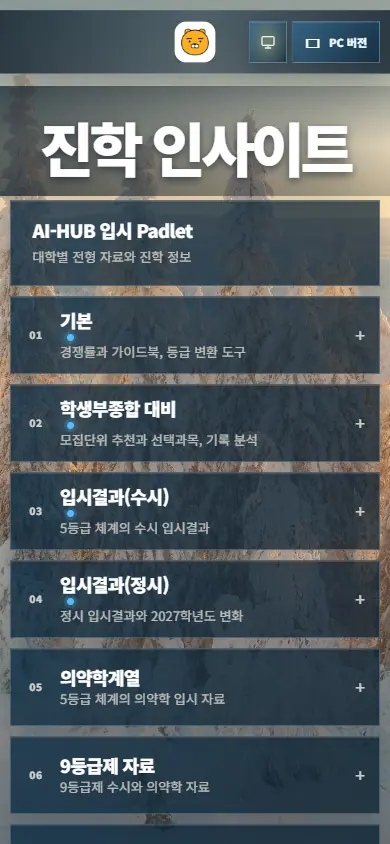
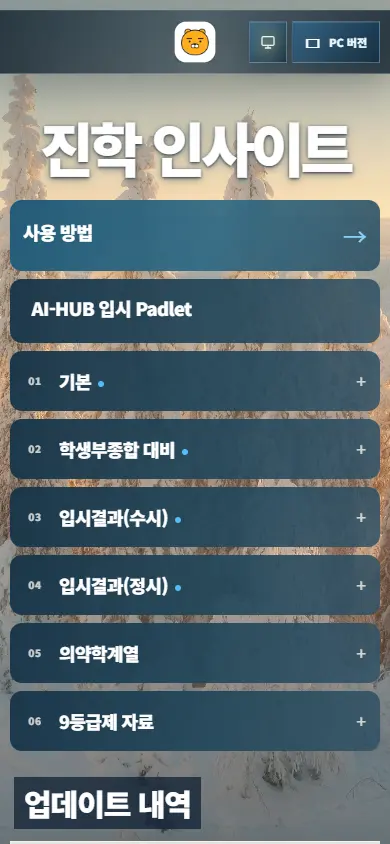
Simplify mobile menus and lead with the usage guide

diff --git a/index.html b/index.html
@@ -30,7 +30,7 @@
   <meta name="twitter:title" content="진학 인사이트">
   <meta name="twitter:description" content="입시 정보와 진학 도구를 한곳에서 확인하세요.">
   <meta name="twitter:image" content="https://seiryu1318.github.io/Ergosphere_Ryan/og-preview-20260827-05.jpg">
-  <title>라이언의 대입 포털 ver.20261118 - 01</title>
+  <title>라이언의 대입 포털 ver.20261118 - 02</title>
   <script>
     (() => {
       if ("scrollRestoration" in history) history.scrollRestoration = "manual";
@@ -3384,7 +3384,7 @@
       .mobile-menu-category[open] > .mobile-category-panel { animation: none; }
     }
 
-    /* Winter glass refresh — ver.20261118 - 01 */
+    /* Winter glass refresh — ver.20261118 - 02 */
     :root {
       --refresh-blue: #79c8ff;
       --refresh-blue-strong: #2799e8;
@@ -3541,7 +3541,7 @@
     /* A blue point means this section is currently being revised. */
     .category-trigger.has-work-change::before,
     body.mode-pc .bottom-nav .category-project-link.has-work-change::before,
-    .mobile-category-toggle.has-work-change .mobile-menu-head::after,
+    .mobile-category-toggle.has-work-change .mobile-menu-head strong::after,
     .mobile-category-link.has-work-change strong::after {
       display: inline-block;
       width: 7px;
@@ -3758,6 +3758,25 @@
       .portal-modal,
       .portal-modal-card { transition: none; }
     }
+    body.mode-pc .bottom-nav { grid-template-columns: var(--help-track) var(--hub-track) minmax(0,6fr) var(--roadmap-track); }
+    body.mode-mobile .mobile-hero::before { content: none; }
+    body.mode-mobile .mobile-hero h1 { text-shadow: 0 1px 3px #283a47, 0 2px 8px #24374780; }
+    body.mode-mobile .mobile-menu-list { gap: 8px; }
+    body.mode-mobile .mobile-menu-list :is(.mobile-menu-item,.mobile-category-panel,.mobile-category-link) {
+      border: 0; border-radius: 12px; box-shadow: none;
+      background: linear-gradient(112deg, #183448f5, #23475aed 54%, #315267d9);
+    }
+    body.mode-mobile .mobile-menu-list .mobile-menu-item { min-height: 60px; }
+    body.mode-mobile .mobile-menu-list .mobile-category-panel { background: #102839ec; padding: 6px; }
+    body.mode-mobile .mobile-menu-list .mobile-category-link { background: transparent; }
+    body.mode-mobile .mobile-menu-list :is(.mobile-help-launch,details[open] > summary,.mobile-category-link:focus-visible,.mobile-menu-item:hover) { background: linear-gradient(110deg,#245b78,#306a84ee 55%,#315366ed); }
+    body.mode-mobile .mobile-menu-item.mobile-category-toggle .mobile-menu-head { margin: 0; }
+    body.mode-mobile .mobile-menu-list .has-work-change strong::after { width: 6px; height: 6px; box-shadow: none; vertical-align: middle; }
+    @media(max-width:760px) {
+      body.mode-pc .bottom-nav { grid-template-columns: 1fr 1.35fr 1.15fr; }
+      body.mode-pc .bottom-nav .nav-fixed[data-project] { grid-column: 2; }
+      body.mode-pc .bottom-nav .scroll-control { grid-column: 3; }
+    }
   </style>
 </head>
 <body class="locked mode-pc">
@@ -3787,7 +3806,7 @@
[1 lines of base64/hex data omitted]
         <span class="brand-copy">
           <strong>라이언의 대입 포털</strong>
-          <span>ver.20261118 - 01</span>
+          <span>ver.20261118 - 02</span>
         </span>
       </a>
       <div class="header-actions">
@@ -3877,6 +3896,9 @@
       </section>
 
       <nav class="bottom-nav" id="desktopCategoryDock" aria-label="입시 자료 카테고리" data-qa="desktop-category-bar">
+        <button class="help-launch nav-fixed" id="desktopHelpLaunch" type="button" aria-label="사용 방법 열기">
+          <span class="nav-label">사용 방법</span>
+        </button>
         <a class="requires-password password-overlay-host nav-fixed" href="https://padlet.com/seiryu1318/admission-insight-hub-3vmodlyqo1xu1x7f" target="_blank" rel="noopener noreferrer" data-project="ai-hub" data-qa="ai-hub" aria-describedby="desktopHubPasswordHint">
           <span class="nav-label password-primary">AI-HUB 입시 Padlet</span>
           <span class="password-overlay" id="desktopHubPasswordHint" role="tooltip" aria-hidden="true" data-qa="password-overlay">별도 비밀번호 필요</span>
@@ -3939,9 +3961,6 @@
             <div class="category-mega-spacer" aria-hidden="true"></div>
           </div>
         </section>
-        <button class="help-launch nav-fixed" id="desktopHelpLaunch" type="button" aria-label="사용 방법 열기">
-          <span class="nav-label">사용 방법</span>
-        </button>
         <button class="scroll-control" id="scrollControl" type="button" aria-label="업데이트 내역으로 이동" aria-pressed="false" data-qa="roadmap-link">
           <span class="scroll-label">업데이트 내역</span><span class="scroll-arrow" aria-hidden="true">↓</span>
         </button>
@@ -3955,80 +3974,80 @@
 
       <section class="mobile-section mobile-menu-section">
         <nav class="mobile-menu-list" aria-label="입시 자료 바로가기">
+          <button class="mobile-menu-item mobile-help-launch help-launch" id="mobileHelpLaunch" type="button">
+            <span class="mobile-menu-copy"><span class="mobile-menu-head"><strong>사용 방법</strong></span></span>
+            <span class="mobile-help-arrow" aria-hidden="true">→</span>
+          </button>
           <a class="mobile-menu-item mobile-hub-link requires-password password-overlay-host" href="https://padlet.com/seiryu1318/admission-insight-hub-3vmodlyqo1xu1x7f" target="_blank" rel="noopener noreferrer" data-project="ai-hub" data-qa="ai-hub" aria-describedby="mobileHubPasswordHint">
-            <span class="mobile-menu-copy password-primary"><span class="mobile-menu-head"><strong>AI-HUB 입시 Padlet</strong></span><small>대학별 전형 자료와 진학 정보</small></span>
+            <span class="mobile-menu-copy password-primary"><span class="mobile-menu-head"><strong>AI-HUB 입시 Padlet</strong></span></span>
             <span class="password-overlay" id="mobileHubPasswordHint" role="tooltip" aria-hidden="true" data-qa="password-overlay"><span>별도 비밀번호 필요<small>한 번 더 누르면 이동</small></span></span>
           </a>
           <details class="mobile-menu-category" data-category="common">
             <summary class="mobile-menu-item mobile-category-toggle" data-qa="mobile-category-trigger" tabindex="0">
               <span class="mobile-menu-number">01</span>
-              <span class="mobile-menu-copy"><span class="mobile-menu-head"><strong>기본</strong></span><small>경쟁률과 가이드북, 등급 변환 도구</small></span>
+              <span class="mobile-menu-copy"><span class="mobile-menu-head"><strong>기본</strong></span></span>
               <span class="mobile-category-chevron" aria-hidden="true"></span>
             </summary>
             <div class="mobile-category-panel" data-qa="mobile-category-panel">
-              <a class="mobile-category-link" href="https://seiryu1318.github.io/competition-rate_RyanM/" target="_blank" rel="noopener noreferrer" data-project="competition" data-qa="mobile-project-link"><span><strong>경쟁률 검색기</strong><small>대학과 전형별 경쟁률</small></span></a>
-              <a class="mobile-category-link" href="https://seiryu1318.github.io/Guide_RyanM/" target="_blank" rel="noopener noreferrer" data-project="guide" data-qa="mobile-project-link"><span><strong>가이드북 통합 검색기</strong><small>입시 가이드북을 한 번에 검색</small></span></a>
-              <a class="mobile-category-link" href="https://seiryu1318.github.io/5rating_RyanM/" target="_blank" rel="noopener noreferrer" data-project="rating" data-qa="mobile-project-link"><span><strong>5등급 - 9등급 변환</strong><small>5등급 성적을 9등급 기준으로 환산</small></span></a>
+              <a class="mobile-category-link" href="https://seiryu1318.github.io/competition-rate_RyanM/" target="_blank" rel="noopener noreferrer" data-project="competition" data-qa="mobile-project-link"><span><strong>경쟁률 검색기</strong></span></a>
+              <a class="mobile-category-link" href="https://seiryu1318.github.io/Guide_RyanM/" target="_blank" rel="noopener noreferrer" data-project="guide" data-qa="mobile-project-link"><span><strong>가이드북 통합 검색기</strong></span></a>
+              <a class="mobile-category-link" href="https://seiryu1318.github.io/5rating_RyanM/" target="_blank" rel="noopener noreferrer" data-project="rating" data-qa="mobile-project-link"><span><strong>5등급 - 9등급 변환</strong></span></a>
             </div>
           </details>
           <details class="mobile-menu-category" data-category="documents">
             <summary class="mobile-menu-item mobile-category-toggle" data-qa="mobile-category-trigger" tabindex="0">
               <span class="mobile-menu-number">02</span>
-              <span class="mobile-menu-copy"><span class="mobile-menu-head"><strong>학생부종합 대비</strong></span><small>모집단위 추천과 선택과목, 기록 분석</small></span>
+              <span class="mobile-menu-copy"><span class="mobile-menu-head"><strong>학생부종합 대비</strong></span></span>
               <span class="mobile-category-chevron" aria-hidden="true"></span>
             </summary>
             <div class="mobile-category-panel" data-qa="mobile-category-panel">
-              <a class="mobile-category-link requires-password password-overlay-host" href="https://seiryu1318.github.io/doc_ev_RyanM/" target="_blank" rel="noopener noreferrer" data-project="doc-ev" data-qa="mobile-project-link" aria-describedby="mobileDocPasswordHint"><span class="password-primary"><strong>라이언의 모집단위 추천</strong><small>학교생활기록부에 맞는 모집단위와 추천 근거</small></span><span class="password-overlay" id="mobileDocPasswordHint" role="tooltip" aria-hidden="true" data-qa="password-overlay"><span>별도 비밀번호 필요<small>한 번 더 누르면 이동</small></span></span></a>
-              <a class="mobile-category-link" href="https://seiryu1318.github.io/Curriculum_RyanM/" target="_blank" rel="noopener noreferrer" data-project="curriculum" data-qa="mobile-project-link"><span><strong>2022 선택과목 검색기</strong><small>대학별 권장 과목과 고교 선택과목</small></span></a>
-              <a class="mobile-category-link" href="https://seiryu1318.github.io/Ryan_record/mobile/" target="_blank" rel="noopener noreferrer" data-project="record" data-qa="mobile-project-link"><span><strong>라이언의 기록 분석</strong><small>학교생활기록부의 흐름과 강점 분석</small></span></a>
+              <a class="mobile-category-link requires-password password-overlay-host" href="https://seiryu1318.github.io/doc_ev_RyanM/" target="_blank" rel="noopener noreferrer" data-project="doc-ev" data-qa="mobile-project-link" aria-describedby="mobileDocPasswordHint"><span class="password-primary"><strong>라이언의 모집단위 추천</strong></span><span class="password-overlay" id="mobileDocPasswordHint" role="tooltip" aria-hidden="true" data-qa="password-overlay"><span>별도 비밀번호 필요<small>한 번 더 누르면 이동</small></span></span></a>
+              <a class="mobile-category-link" href="https://seiryu1318.github.io/Curriculum_RyanM/" target="_blank" rel="noopener noreferrer" data-project="curriculum" data-qa="mobile-project-link"><span><strong>2022 선택과목 검색기</strong></span></a>
+              <a class="mobile-category-link" href="https://seiryu1318.github.io/Ryan_record/mobile/" target="_blank" rel="noopener noreferrer" data-project="record" data-qa="mobile-project-link"><span><strong>라이언의 기록 분석</strong></span></a>
             </div>
           </details>
           <details class="mobile-menu-category" data-category="early">
             <summary class="mobile-menu-item mobile-category-toggle" data-qa="mobile-category-trigger" tabindex="0">
               <span class="mobile-menu-number">03</span>
-              <span class="mobile-menu-copy"><span class="mobile-menu-head"><strong>입시결과(수시)</strong></span><small>5등급 체계의 수시 입시결과</small></span>
+              <span class="mobile-menu-copy"><span class="mobile-menu-head"><strong>입시결과(수시)</strong></span></span>
               <span class="mobile-category-chevron" aria-hidden="true"></span>
             </summary>
             <div class="mobile-category-panel" data-qa="mobile-category-panel">
-              <a class="mobile-category-link" href="https://seiryu1318.github.io/5admission_RyanM/" target="_blank" rel="noopener noreferrer" data-project="admission-5" data-qa="mobile-project-link"><span><strong>수시모집 입시결과(5등급)</strong><small>2021학년도부터 2026학년도까지의 수시 결과</small></span></a>
+              <a class="mobile-category-link" href="https://seiryu1318.github.io/5admission_RyanM/" target="_blank" rel="noopener noreferrer" data-project="admission-5" data-qa="mobile-project-link"><span><strong>수시모집 입시결과(5등급)</strong></span></a>
             </div>
           </details>
           <details class="mobile-menu-category" data-category="regular">
             <summary class="mobile-menu-item mobile-category-toggle" data-qa="mobile-category-trigger" tabindex="0">
               <span class="mobile-menu-number">04</span>
-              <span class="mobile-menu-copy"><span class="mobile-menu-head"><strong>입시결과(정시)</strong></span><small>정시 입시결과와 2027학년도 변화</small></span>
+              <span class="mobile-menu-copy"><span class="mobile-menu-head"><strong>입시결과(정시)</strong></span></span>
               <span class="mobile-category-chevron" aria-hidden="true"></span>
             </summary>
             <div class="mobile-category-panel" data-qa="mobile-category-panel">
-              <a class="mobile-category-link" href="https://seiryu1318.github.io/Regular_RyanM/" target="_blank" rel="noopener noreferrer" data-project="regular" data-qa="mobile-project-link"><span><strong>정시모집 입결 분석기(2023-2026)</strong><small>2023학년도부터 2026학년도까지의 정시 결과</small></span></a>
-              <a class="mobile-category-link" href="https://seiryu1318.github.io/Regular_A_RyanM/" target="_blank" rel="noopener noreferrer" data-project="regular-a" data-qa="mobile-project-link"><span><strong>2027 정시모집 변화 분석</strong><small>2027학년도 변화와 대학별 반영 방법</small></span></a>
+              <a class="mobile-category-link" href="https://seiryu1318.github.io/Regular_RyanM/" target="_blank" rel="noopener noreferrer" data-project="regular" data-qa="mobile-project-link"><span><strong>정시모집 입결 분석기(2023-2026)</strong></span></a>
+              <a class="mobile-category-link" href="https://seiryu1318.github.io/Regular_A_RyanM/" target="_blank" rel="noopener noreferrer" data-project="regular-a" data-qa="mobile-project-link"><span><strong>2027 정시모집 변화 분석</strong></span></a>
             </div>
           </details>
           <details class="mobile-menu-category" data-category="medical">
             <summary class="mobile-menu-item mobile-category-toggle" data-qa="mobile-category-trigger" tabindex="0">
               <span class="mobile-menu-number">05</span>
-              <span class="mobile-menu-copy"><span class="mobile-menu-head"><strong>의약학계열</strong></span><small>5등급 체계의 의약학 입시 자료</small></span>
+              <span class="mobile-menu-copy"><span class="mobile-menu-head"><strong>의약학계열</strong></span></span>
               <span class="mobile-category-chevron" aria-hidden="true"></span>
             </summary>
             <div class="mobile-category-panel" data-qa="mobile-category-panel">
-              <a class="mobile-category-link" href="https://seiryu1318.github.io/5medical_RyanM/" target="_blank" rel="noopener noreferrer" data-project="medical-5" data-qa="mobile-project-link"><span><strong>라이언의 의약학 문단속(5등급)</strong><small>의대, 치대, 한의대, 약대, 수의대 자료</small></span></a>
+              <a class="mobile-category-link" href="https://seiryu1318.github.io/5medical_RyanM/" target="_blank" rel="noopener noreferrer" data-project="medical-5" data-qa="mobile-project-link"><span><strong>라이언의 의약학 문단속(5등급)</strong></span></a>
             </div>
           </details>
           <details class="mobile-menu-category" data-category="legacy">
             <summary class="mobile-menu-item mobile-category-toggle" data-qa="mobile-category-trigger" tabindex="0">
               <span class="mobile-menu-number">06</span>
-              <span class="mobile-menu-copy"><span class="mobile-menu-head"><strong>9등급제 자료</strong></span><small>9등급제 수시와 의약학 자료</small></span>
+              <span class="mobile-menu-copy"><span class="mobile-menu-head"><strong>9등급제 자료</strong></span></span>
               <span class="mobile-category-chevron" aria-hidden="true"></span>
             </summary>
             <div class="mobile-category-panel" data-qa="mobile-category-panel">
-              <a class="mobile-category-link" href="https://seiryu1318.github.io/admission_RyanM/" target="_blank" rel="noopener noreferrer" data-project="admission-9" data-qa="mobile-project-link"><span><strong>수시모집 입시결과(9등급)</strong><small>2021학년도부터 2026학년도까지의 수시 결과</small></span></a>
-              <a class="mobile-category-link" href="https://seiryu1318.github.io/medical_RyanM/" target="_blank" rel="noopener noreferrer" data-project="medical-9" data-qa="mobile-project-link"><span><strong>라이언의 의약학 문단속(9등급)</strong><small>의대, 치대, 한의대, 약대, 수의대 자료</small></span></a>
+              <a class="mobile-category-link" href="https://seiryu1318.github.io/admission_RyanM/" target="_blank" rel="noopener noreferrer" data-project="admission-9" data-qa="mobile-project-link"><span><strong>수시모집 입시결과(9등급)</strong></span></a>
+              <a class="mobile-category-link" href="https://seiryu1318.github.io/medical_RyanM/" target="_blank" rel="noopener noreferrer" data-project="medical-9" data-qa="mobile-project-link"><span><strong>라이언의 의약학 문단속(9등급)</strong></span></a>
             </div>
           </details>
-          <button class="mobile-menu-item mobile-help-launch help-launch" id="mobileHelpLaunch" type="button">
-            <span class="mobile-menu-copy"><span class="mobile-menu-head"><strong>사용 방법</strong></span><small>포털 이용과 기기별 설치 방법</small></span>
-            <span class="mobile-help-arrow" aria-hidden="true">→</span>
-          </button>
         </nav>
       </section>
 
@@ -4111,7 +4130,7 @@
 
         <section class="guide-panel is-active" id="guidePanelBasic" role="tabpanel" aria-labelledby="guideTabBasic" data-guide-panel="basic">
           <figure class="guide-shot">
-            <img src="./assets/guide-portal.webp?v=20261118-01" width="1100" height="688" loading="lazy" decoding="async" alt="포털 아래쪽 메뉴에서 카테고리와 업데이트 내역을 선택하는 화면">
+            <img src="./assets/guide-portal.webp?v=20261118-02" width="1100" height="688" loading="lazy" decoding="async" alt="포털 아래쪽 메뉴에서 카테고리와 업데이트 내역을 선택하는 화면">
             <figcaption>화면 아래쪽 메뉴에서 원하는 자료를 찾을 수 있습니다.</figcaption>
           </figure>
           <ol class="guide-steps">
@@ -4124,7 +4143,7 @@
 
         <section class="guide-panel" id="guidePanelPc" role="tabpanel" aria-labelledby="guideTabPc" data-guide-panel="pc" hidden>
           <figure class="guide-shot">
-            <img src="./assets/guide-install-pc.webp?v=20261118-01" width="760" height="220" loading="lazy" decoding="async" alt="PC 화면 오른쪽 위의 앱 설치 버튼 위치">
+            <img src="./assets/guide-install-pc.webp?v=20261118-02" width="760" height="220" loading="lazy" decoding="async" alt="PC 화면 오른쪽 위의 앱 설치 버튼 위치">
             <figcaption>PC에서는 화면 오른쪽 위의 앱 설치 버튼을 이용합니다.</figcaption>
           </figure>
           <ol class="guide-steps">
@@ -4137,7 +4156,7 @@
 
         <section class="guide-panel" id="guidePanelMobile" role="tabpanel" aria-labelledby="guideTabMobile" data-guide-panel="mobile" hidden>
           <figure class="guide-shot">
-            <img src="./assets/guide-install-mobile.webp?v=20261118-01" width="390" height="844" loading="lazy" decoding="async" alt="모바일 화면에서 포털을 앱으로 설치하는 위치와 순서">
+            <img src="./assets/guide-install-mobile.webp?v=20261118-02" width="390" height="844" loading="lazy" decoding="async" alt="모바일 화면에서 포털을 앱으로 설치하는 위치와 순서">
             <figcaption>Android는 앱 설치를 누르고 iPhone은 Safari 공유 메뉴를 사용합니다.</figcaption>
           </figure>
           <ol class="guide-steps">
@@ -4208,7 +4227,7 @@
 
       if ("serviceWorker" in navigator && supportsPwaInstall) {
         window.addEventListener("load", () => {
-          navigator.serviceWorker.register("./service-worker.js?v=20261118-01", {
+          navigator.serviceWorker.register("./service-worker.js?v=20261118-02", {
             scope: "./",
             updateViaCache: "none"
           }).then((registration) => registration.update()).catch(() => {});

diff --git a/service-worker.js b/service-worker.js
@@ -1,5 +1,5 @@
 const CACHE_PREFIX = "ryan-admission-portal-";
-const CACHE_NAME = "ryan-admission-portal-20261118-01";
+const CACHE_NAME = "ryan-admission-portal-20261118-02";
 const SCOPE_URL = new URL(self.registration.scope);
 const INDEX_URL = new URL("./index.html", SCOPE_URL);
 const APP_SHELL = [
